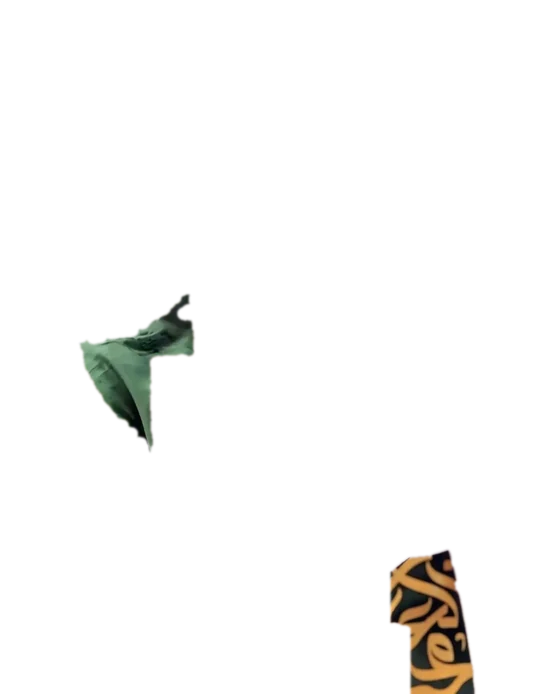
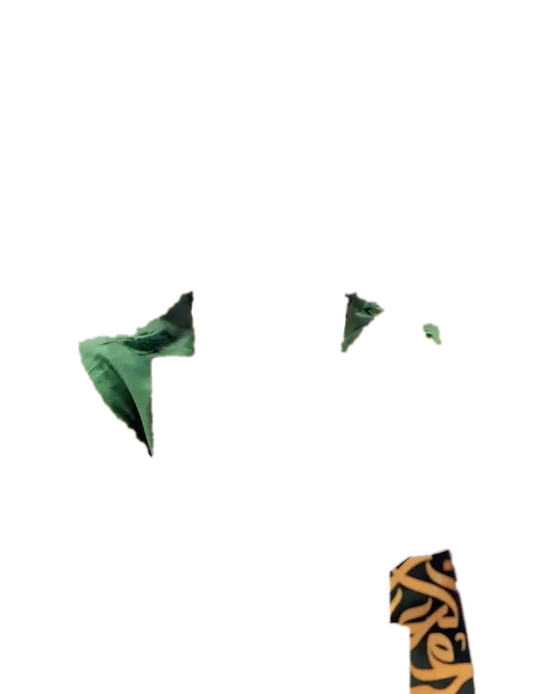
الرئيسية: الشال ملوّن بالكامل في الوضع الافتراضي (الكتفان والقطعة السفلية) دون تلاشٍ
Claude-Session: https://claude.ai/code/session_013ALw411tmvWvk4vz1MqhL9

diff --git a/src/styles/global.css b/src/styles/global.css
@@ -652,7 +652,8 @@ html{scroll-padding-top:calc(var(--gnav-h) + 64px)}
 .pfig .portrait{margin:0;transition:opacity .6s var(--ease) .2s}
 .pfig-photo{position:absolute;inset:0;display:block;pointer-events:none;-webkit-mask-image:radial-gradient(circle at var(--mx,50%) var(--my,35%),#000 var(--r),transparent calc(var(--r) + 16%));mask-image:radial-gradient(circle at var(--mx,50%) var(--my,35%),#000 var(--r),transparent calc(var(--r) + 16%));opacity:0;transition:--r 1.1s var(--ease),opacity .01s linear 1.1s}
 .pfig-sash{position:absolute;inset:0;display:block;pointer-events:none}
-.pfig-photo img,.pfig-sash img{display:block;width:100%;height:100%;object-fit:contain;-webkit-mask-image:linear-gradient(#000 82%,transparent);mask-image:linear-gradient(#000 82%,transparent)}
+.pfig-photo img,.pfig-sash img{display:block;width:100%;height:100%;object-fit:contain}
+.pfig-photo img{-webkit-mask-image:linear-gradient(#000 82%,transparent);mask-image:linear-gradient(#000 82%,transparent)}
 @media (prefers-reduced-motion:no-preference){.js .pfig-sash img{animation:sash-in 1.4s var(--ease) .9s both}}
 @keyframes sash-in{from{opacity:0;filter:saturate(.2)}to{opacity:1;filter:none}}
 .pfig.on .pfig-photo{--r:135%;opacity:1;transition:--r 1.1s var(--ease),opacity .01s}
